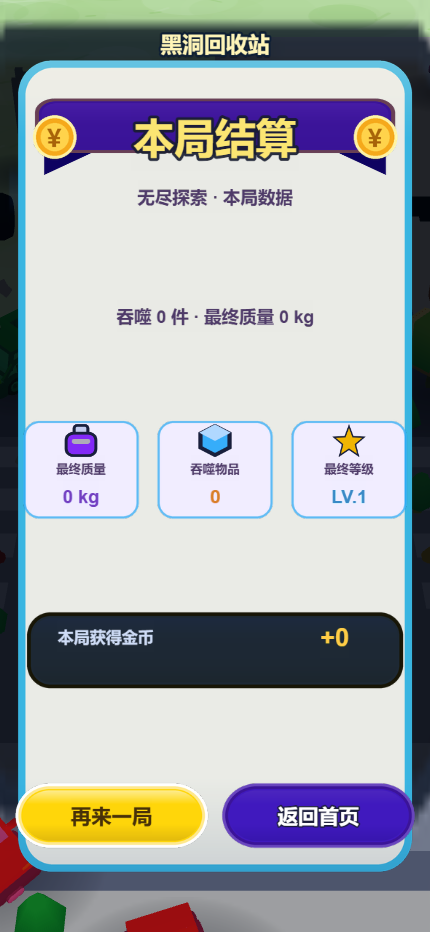
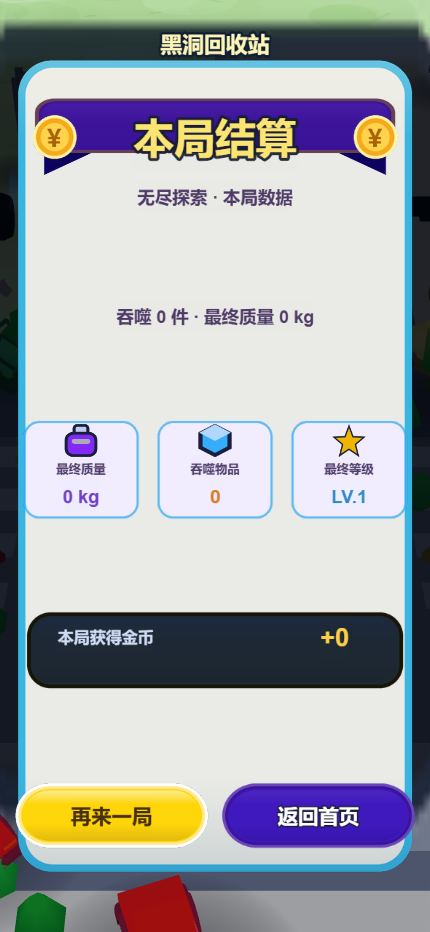
feat(v13.1): PHASE 4 -- let the city show behind the revive overlay
RevivePage already floats over the live world -- what is behind it is the city the
player just died in, not a background image. Its DimOverlay sat at alpha 208 (82%),
which crushed the world to a flat dark green and made the page read as a panel on a
colour. The reference's revive reads as a panel on the city.

Lowered to 140 (55%): the world is legible behind the card and the cream card and
the buttons still carry the contrast. Checked on the captured page, not only in the
scene.

The edit goes through the shared scene editor rather than text-splicing the scene.
Its set_color writes the value as a single-line literal, so the diff shows one line
replacing seven; the JSON is valid and Creator re-expands it on its next save.

Verified: build PASS, test:full 529 PASS with no failures, verify:layout PASS,
review:art all four PASS.

Changed region(s): [[0.2116, 0.9335, 0.4837, 1.0], [0.0, 0.8712, 0.0907, 1.0], [0.9372, 0.3423, 0.9977, 0.4045]]

diff --git a/scripts/tune_revive_dim.py b/scripts/tune_revive_dim.py
@@ -1,0 +1,60 @@
+"""Let the city show behind the revive overlay.
+
+`RevivePage` already floats over the live game world -- what is behind it is the
+arena or the endless city, not a background image. But its `DimOverlay` sits at
+alpha 208 (82%), which crushes the world to a flat dark green: the page reads as a
+panel on a colour, and the reference's revive reads as a panel on the CITY the
+player just died in.
+
+This lowers the dim so the world is legible while the cream card and the buttons
+still carry the contrast. It is a scene value change, done through the shared
+scene editor rather than by text-splicing the scene.
+
+Run: python scripts/tune_revive_dim.py [--write]
+"""
+import os
+import sys
+
+sys.path.insert(0, os.path.join(os.path.dirname(os.path.abspath(__file__)), 'lib'))
+from scene_edit import Scene  # noqa: E402
+
+ROOT = os.path.join(os.path.dirname(os.path.abspath(__file__)), '..')
+SCENE = os.path.join(ROOT, 'cocos', 'assets', 'scenes', 'Game.scene')
+
+# 208 was 82% opaque. 140 (55%) keeps the card readable and leaves the city
+# visible; the reference shows the world clearly behind the overlay.
+TARGET_ALPHA = 140
+
+
+def main():
+    write = '--write' in sys.argv
+    scene = Scene(SCENE)
+    page = scene.find('RevivePage')
+    if page is None:
+        raise SystemExit('RevivePage not found')
+    overlay = scene.find_child('RevivePage', 'DimOverlay')
+    if overlay is None:
+        raise SystemExit('RevivePage/DimOverlay not found')
+    component = scene.component(overlay, 'cc.Sprite')
+    if component is None:
+        raise SystemExit('DimOverlay has no cc.Sprite')
+
+    sprite = scene.arr[component]
+    colour = sprite.get('_color') or {}
+    print('DimOverlay colour before: r=%s g=%s b=%s a=%s'
+          % (colour.get('r'), colour.get('g'), colour.get('b'), colour.get('a')))
+    if colour.get('a') == TARGET_ALPHA:
+        print('already at %d; nothing to do' % TARGET_ALPHA)
+        return 0
+    scene.set_color(component, (colour.get('r', 5), colour.get('g', 13),
+                                colour.get('b', 31), TARGET_ALPHA))
+    if not write:
+        print('(dry run; pass --write to save)')
+        return 0
+    scene.commit()
+    print('wrote %s' % os.path.relpath(SCENE, ROOT))
+    return 0
+
+
+if __name__ == '__main__':
+    sys.exit(main())
